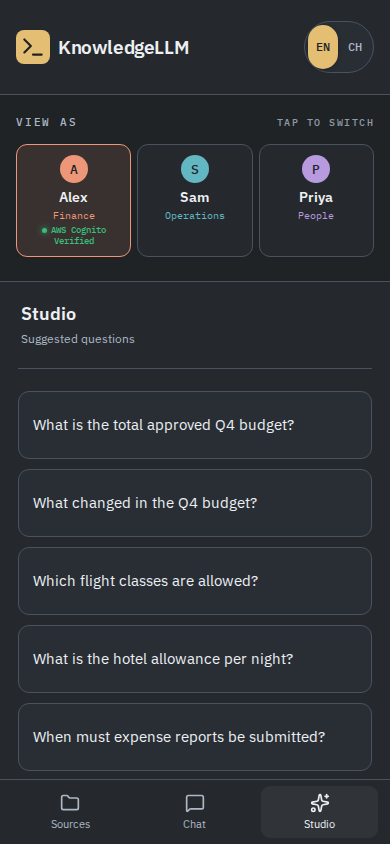
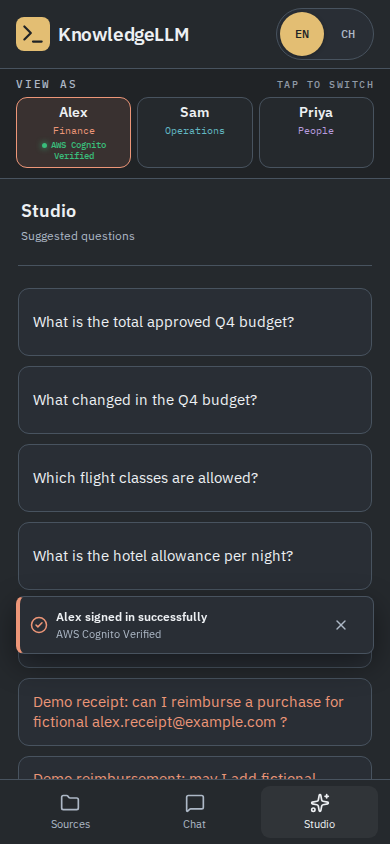
fix(mobile): compact header and sign-in feedback

diff --git a/web/src/styles/app.css b/web/src/styles/app.css
@@ -952,20 +952,20 @@ h2 {
     font-size: 18px;
   }
   .brand-bar {
-    padding: 20px 24px 0;
+    padding: 8px 16px 0;
     display: grid;
     grid-template-columns: minmax(0, 1fr) 44px;
     gap: 0;
     flex: 0 0 auto;
   }
   .brand {
-    min-height: 54px;
-    font-size: 25px;
-    gap: 15px;
+    min-height: 44px;
+    font-size: 21px;
+    gap: 10px;
   }
   .brand-mark {
-    width: 44px;
-    height: 44px;
+    width: 34px;
+    height: 34px;
   }
   .account-button {
     justify-self: end;
@@ -973,8 +973,8 @@ h2 {
   .identity-picker {
     grid-column: 1 / -1;
     grid-row: 2;
-    margin: 20px -24px 0;
-    padding: 20px 24px 24px;
+    margin: 8px -16px 0;
+    padding: 8px 16px 10px;
     background: var(--canvas);
     border-top: 1px solid var(--border);
     display: block;
@@ -986,7 +986,7 @@ h2 {
     align-items: center;
     font-size: 11px;
     letter-spacing: 1.8px;
-    margin-bottom: 15px;
+    margin-bottom: 6px;
   }
   .desktop-only,
   .desktop-copy {
@@ -1010,17 +1010,16 @@ h2 {
   .identity-card {
     border-color: var(--border);
     background: var(--surface);
-    padding: 10px 4px;
+    padding: 6px 4px;
+    min-height: 64px;
     min-width: 0;
     flex-direction: column;
     border-radius: 11px;
-    gap: 6px;
+    gap: 3px;
     white-space: normal;
   }
   .identity-card .avatar {
-    width: 28px;
-    height: 28px;
-    font-size: 13px;
+    display: none;
   }
   .identity-text {
     align-items: center;
@@ -1116,9 +1115,9 @@ h2 {
     min-height: 0;
   }
   .chat-heading {
-    margin: 0 24px;
-    padding: 15px 0;
-    min-height: 65px;
+    margin: 0 16px;
+    padding: 5px 0;
+    min-height: 54px;
   }
   .chat-heading h2 {
     display: flex;
@@ -1151,6 +1150,8 @@ h2 {
   }
   .new-chat {
     font-size: 11px;
+    min-height: 44px;
+    min-width: 44px;
     border: 0;
     padding: 0 3px;
     gap: 4px;
@@ -1159,7 +1160,7 @@ h2 {
     width: 15px;
   }
   .conversation {
-    padding: 26px 24px 24px;
+    padding: 14px 16px;
     min-height: 0;
   }
   .eyebrow {
@@ -1244,7 +1245,7 @@ h2 {
     font-size: 13px;
   }
   .composer-wrap {
-    padding: 14px 24px;
+    padding: 10px 16px;
   }
   .composer {
     padding: 10px;
@@ -1353,7 +1354,7 @@ h2 {
     gap: 4px;
   }
   .identity-card {
-    min-height: 36px;
+    min-height: 44px;
     padding: 4px 2px;
     flex-direction: row;
     gap: 3px;
@@ -1402,7 +1403,7 @@ h2 {
     font-size: 10px;
   }
   .chat-heading .new-chat {
-    min-height: 34px;
+    min-height: 44px;
     padding-inline: 4px;
   }
   .conversation {
@@ -1517,6 +1518,33 @@ h2 {
   align-items: center;
   justify-content: center;
   min-height: auto;
+}
+@media (max-width: 760px) {
+  .toast-container {
+    bottom: calc(190px + env(safe-area-inset-bottom, 0px));
+    right: 16px;
+    left: 16px;
+    align-items: center;
+  }
+  .toast {
+    width: min(100%, 360px);
+    min-width: 0;
+    gap: 8px;
+    padding: 6px 10px;
+  }
+  .toast-title {
+    font-size: 12px;
+    line-height: 1.3;
+  }
+  .toast-subtitle {
+    font-size: 11px;
+    line-height: 1.3;
+  }
+  .toast-close {
+    min-width: 44px;
+    min-height: 44px;
+    margin-left: 0;
+  }
 }
 @media (hover: hover) and (pointer: fine) {
   .toast-close:hover {
@@ -1652,7 +1680,10 @@ h2 {
     grid-template-columns: minmax(0, 1fr) auto;
   }
   .brand-bar .identity-picker {
-    margin-left: -24px;
+    margin-left: -16px;
+  }
+  .lang-option {
+    min-width: 44px;
   }
 }
 @media (max-width: 390px) {

diff --git a/web/tests/e2e/polish.offline.spec.ts b/web/tests/e2e/polish.offline.spec.ts
@@ -248,6 +248,39 @@ test("reduced-motion pointer press uses opacity without scaling", async ({
   await expect(button).toHaveCSS("opacity", "1");
 });
 
+for (const viewport of [
+  { width: 390, height: 844 },
+  { width: 320, height: 568 },
+]) {
+  test(`compact mobile header and sign-in toast leave the composer usable at ${viewport.width}px`, async ({
+    page,
+  }) => {
+    await page.setViewportSize(viewport);
+    await page.clock.install();
+    await page.clock.pauseAt(new Date(Date.now() + 1000));
+    await page.getByRole("button", { name: /another account: Alex/ }).click();
+    await expect(page.getByRole("textbox")).toBeEnabled();
+    const toast = page.locator(".toast");
+    await expect(toast).toBeVisible();
+    const header = await page.locator(".brand-bar").boundingBox();
+    const heading = await page.locator(".chat-heading").boundingBox();
+    const notification = await toast.boundingBox();
+    const composer = await page.locator(".composer-wrap").boundingBox();
+    const nav = await page.locator(".mobile-view-nav").boundingBox();
+    expect(header!.height).toBeLessThanOrEqual(210);
+    expect(heading!.height).toBeLessThanOrEqual(60);
+    expect(notification!.height).toBeLessThanOrEqual(76);
+    expect(notification!.y + notification!.height).toBeLessThanOrEqual(
+      composer!.y,
+    );
+    expect(composer!.y + composer!.height).toBeLessThanOrEqual(nav!.y);
+    await page.clock.runFor(2000);
+    await expect(toast).toHaveClass(/closing/);
+    await page.clock.runFor(140);
+    await expect(toast).toHaveCount(0);
+  });
+}
+
 for (const reduced of [false, true]) {
   for (const dismissal of ["manual", "automatic"] as const) {
     test(`toast ${dismissal} exit ${reduced ? "with reduced motion" : "with motion"}`, async ({
@@ -295,7 +328,9 @@ for (const reduced of [false, true]) {
           .getByRole("button", { name: "Dismiss notification" })
           .click();
       } else {
-        await page.clock.runFor(3820);
+        await page.clock.runFor(1819);
+        await expect(toast).not.toHaveClass(/closing/);
+        await page.clock.runFor(1);
       }
       await expect(toast).toHaveClass(/closing/);
       await expect(toast).toHaveCSS(

diff --git a/web/src/app/App.tsx b/web/src/app/App.tsx
@@ -382,6 +382,7 @@ function ConnectedApp() {
       />
       {auth.toast && (
         <Toast
+          duration={2000}
           message={auth.toast.message}
           subtitle={auth.toast.subtitle}
           department={auth.toast.department}

diff --git a/PROMTS.md b/PROMTS.md
@@ -26,6 +26,7 @@ Build a responsive, permission-aware document assistant for Alex / Finance, Sam 
 
 - Apply button hover styles only to fine pointers with hover support. Use subtle pointer press feedback (scale 0.985 over 120ms), preserve keyboard focus without scale animation, and replace press movement with opacity feedback for reduced motion.
 - Enter success toasts from the bottom over 180ms using opacity and an 8px translation; retain a closing phase for the 140ms reverse-path exit on dismissal or timeout. For reduced motion, use an 80ms opacity-only transition. Cancel pending timers on unmount or notification replacement.
+- Show sign-in success notifications for two seconds before the closing animation. On mobile, use a compact notification that keeps the composer and bottom navigation accessible. Compact the brand row, persona picker, and chat heading to reserve more vertical space for Chat.
 - Edge-to-edge and installed-phone support is not currently a target; defer `viewport-fit=cover` and expanded safe-area padding until that scope is selected and verified on a real phone.
 - Maintain repeatable browser regression tests for pointer/keyboard/reduced-motion feedback, toast entry/exit, and responsive layouts. Temporary authenticated previews must use the same-origin API proxy and verify real persona sign-in, authorized document loading, and locked unrelated folders through the shared preview URL; a successful homepage or Cognito login alone does not establish a working document journey.
 
